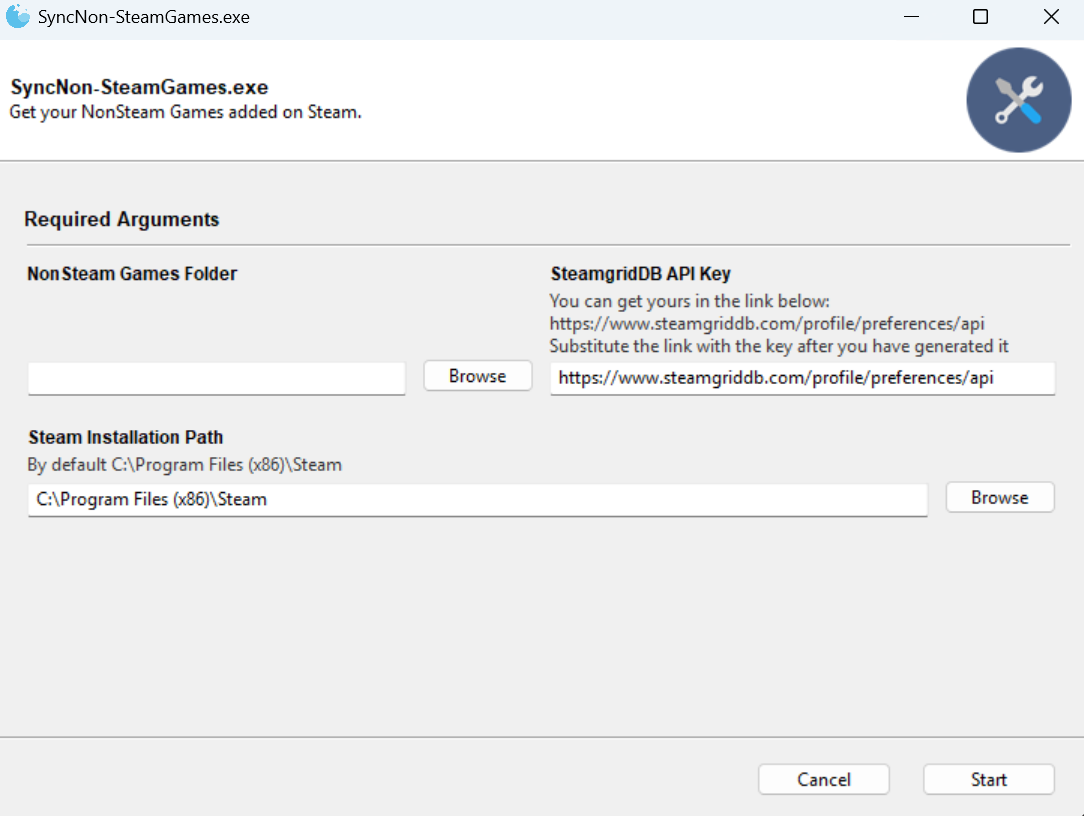
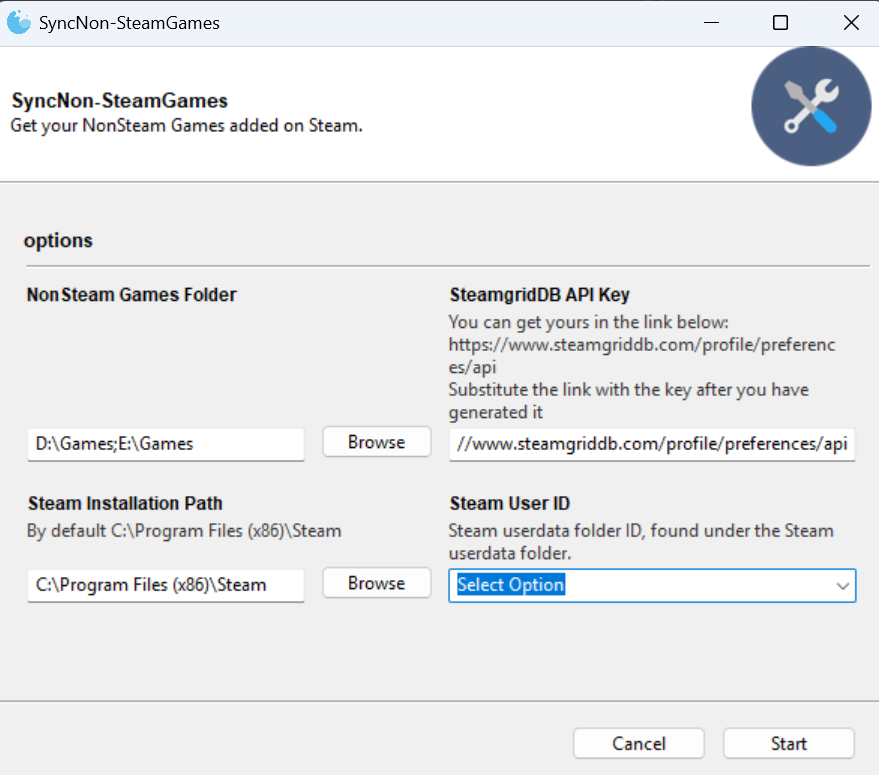
Image and readme updated

diff --git a/README.md b/README.md
@@ -24,12 +24,10 @@ Automatically add Non-Steam Games to Steam with images from SteamGridDB
 - CLI support with the argument `--ignore-gooey` thanks to [`@pwilinchery`](https://github.com/IGnGr/SyncNon-SteamGames/pull/2)
 
 ## Limitations:
-- Only tested in Windows
 - The executable is located by size, which is not ideal. At this moment, the user must change the executable in Steam directly if the wrong one has been chosen.
 
 
 ## Requirements
-- Windows
 - NonSteam Games Folder: Path to the directory where your Non-Steam games are installed.
 - SteamGridDB API Key: You have to generate one for yourself here: https://www.steamgriddb.com/profile/preferences/api
 - Steam Installation path: Path where Steam is installed in your system.
@@ -59,18 +57,6 @@ For CLI usage, pass `--steam_user_id` when multiple Steam userdata folders exist
 python SyncNon-SteamGames.py --ignore-gooey --steam_user_id 12345678
 ```
 
-## Release notes
-The GitHub release workflow is triggered by pushing a git tag in `vX.Y.Z` format, for example `v1.4.1`.
-
-Example:
-```bash
-git tag v1.4.1
-git push origin v1.4.1
-```
-
-Make sure `CHANGELOG.md` contains a matching heading like `## [v1.4.1]` before pushing the tag.
-
-
 ## Tips
 If your library is huge and you are having difficulties locating the games, here is how you can find them easily  until Valve provides a filter in desktop mode (Only big picture has a filter for non-steam games):
 - Enable the option to show only installed games
@@ -82,6 +68,18 @@ If your library is huge and you are having difficulties locating the games, here
     This should narrow the games in your "Uncategorized" section to be basically the ones we're looking for
 - Create a new library on "Non-Steam" steam and add them
 - Congratulations! your games are categorized and easily accessible
+
+## Release notes
+The GitHub release workflow is triggered by pushing a git tag in `vX.Y.Z` format, for example `v1.4.1`.
+
+Example:
+```bash
+git tag v1.4.1
+git push origin v1.4.1
+```
+
+Make sure `CHANGELOG.md` contains a matching heading like `## [v1.4.1]` before pushing the tag.
+
 
 ## 3rd Party libraries
 - "Gooey" for the GUI (https://github.com/chriskiehl/Gooey)